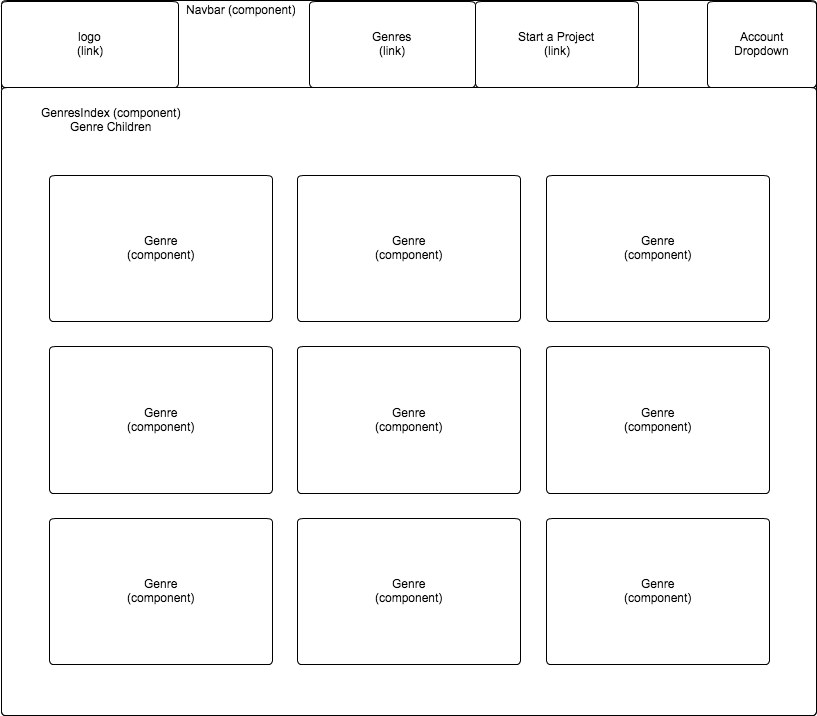
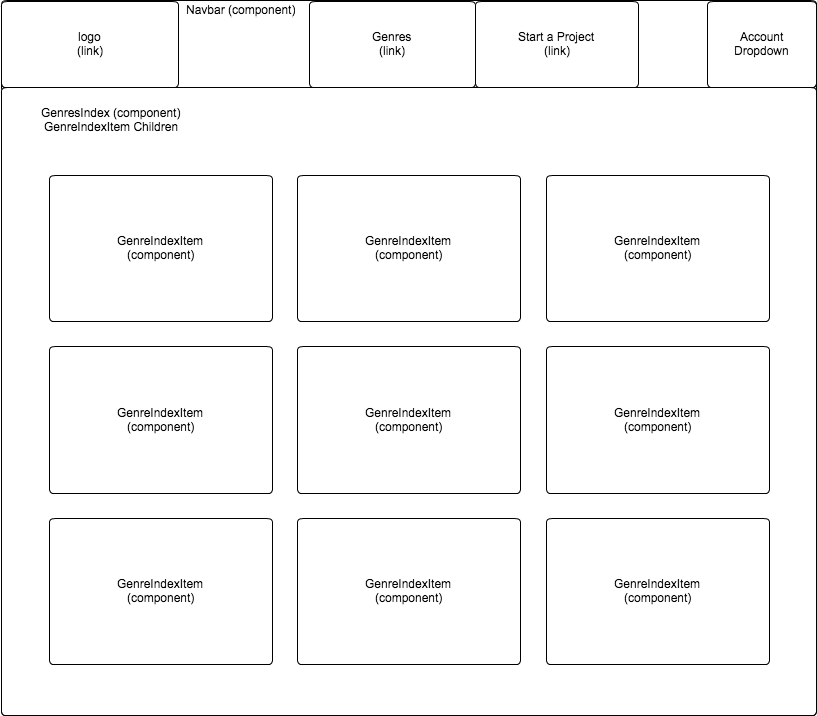
Fixed wireframes

diff --git a/README.md b/README.md
@@ -1,23 +1,23 @@
 # Pickstarter
 
-[Heroku link][heroku] **NB:** This should be a link to your production site
+<!-- [Heroku link][heroku] **NB:** This should be a link to your production site
 
-[heroku]:
+[heroku]: -->
 
 ## Minimum Viable Product
 
-Pickstarter is a web application inspired by Kickstarter which allows musical artists to fundraise for projects. Pickstarter is built using Ruby on Rails
+Pickstarter is a web application inspired by Kickstarter which allows musical artists to fundraise for tours, albums, or other musical endeavors. Pickstarter is built using Ruby on Rails
 and React.js. Pickstarter allows users to:
 
 <!-- This is a Markdown checklist. Use it to keep track of your progress! -->
 
 - [ ] Create an account
 - [ ] Log in / Log out
-- [ ] Users can create and read projects
-- [ ] Projects searchable by genre
-- [ ] Users can back projects
-- [ ] Project form allows picture / sound clip uploads
-- [ ] Current user can view their profile page
+- [ ] Create and read projects
+- [ ] Search projects by genre
+- [ ] Back projects
+- [ ] Upload pictures and sound clips for their projects
+- [ ] View their own profile page
 
 ## Design Docs
 * [View Wireframes][view]
@@ -34,9 +34,9 @@ During Phase 1, I will first implement user signup and authentication. After log
 
 [Details][phase-one]
 
-### Phase 2: Flux Architecture and Project CRUD (2.5 days)
+### Phase 2: Flux Architecture and Project Create/Read (2.5 days)
 
-In phase 2, I will first set up the Flux architecture and React Router. I will add the necessary actions and ApiUtil methods for the Genres and Projects. Then I will add the Stores for Genres and Projects, and finally the views for the genres index, genre show page (which holds the index for the projects under that genre), and the project form to post new projects. I will style these with Bootstrap.
+In phase 2, I will first set up the Flux architecture and React Router. I will add the necessary actions and ApiUtil methods for the Genres and Projects. Then I will add the Stores for Genres and Projects, and finally the views for the genres index, genre show page (which holds the index for the projects under that genre), project show page, and the project form to post new projects. I will style these with Bootstrap.
 
 [Details][phase-two]
 

diff --git a/docs/views.md b/docs/views.md
@@ -12,7 +12,7 @@
 ## ProjectsIndex / ProjectIndexItem
 ![projects]
 
-## Project
+## ProjectShow
 ![project]
 
 ## User Profile
@@ -32,7 +32,7 @@
 [genres]: ./wireframes/genres_index.png
 [projects]: ./wireframes/projects_index.png
 [project-form]: ./wireframes/project_form.png
-[project]: ./wireframes/project_page.png
+[project]: ./wireframes/project_show.png
 [user-profile]: ./wireframes/user_profile.png
 [contribution-form]: ./wireframes/contribution_form.png
 [component-hierarchy]: ./wireframes/component_hierarchy.png

diff --git a/docs/phases/phase2.md b/docs/phases/phase2.md
@@ -13,23 +13,22 @@
   - GenreIndexItem
 * ProjectsIndex
   - ProjectIndexItem
+* ProjectShow
 
 ### Stores
 * Project
 * Genre
 
 ### Actions
-* ApiActions.receiveGenres
-* ApiActions.receiveGenre
-* ApiActions.receiveProject
+* ApiActions.receiveAllGenres
+* ApiActions.receiveSingleGenre
+* ApiActions.receiveSingleProject
 
 ### ApiUtil
 * ApiUtil.fetchGenres
 * ApiUtil.fetchGenre
 * ApiUtil.fetchProject
 * ApiUtil.createProject
-* ApiUtil.editProject
-* ApiUtil.destroyProject
 
 ## Gems/Libraries
 * Flux Dispatcher

diff --git a/docs/phases/phase3.md b/docs/phases/phase3.md
@@ -14,6 +14,8 @@ users/show.json.jbuilder
 ### Views (React Components)
 * ContributionForm
 * UserProfile
+  - ProjectsIndex
+    - ProjectIndexItem
 
 ### Stores
 * User
